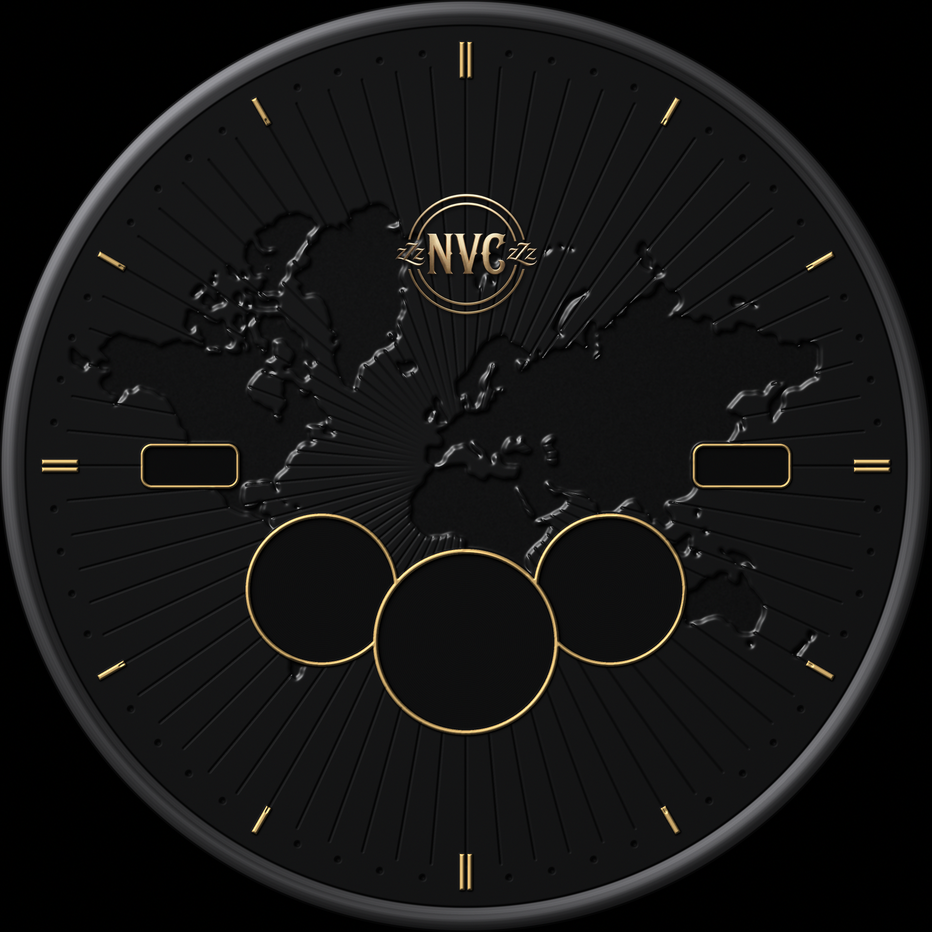
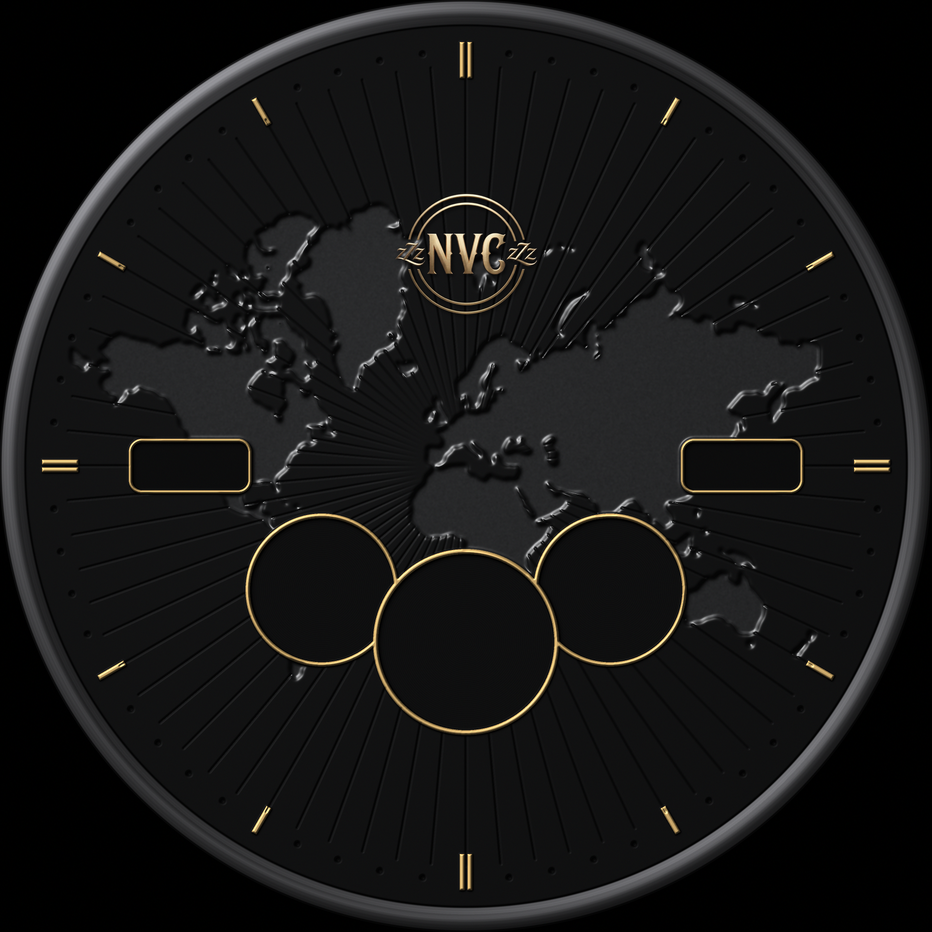
fix: larger date, battery and complication text; lighter map; trend from glucose text

diff --git a/art/render_bg.py b/art/render_bg.py
@@ -32,7 +32,7 @@ BEZEL_IN, BEZEL_OUT = 221.0, 233.0
 CENTER_WELL = (0.0, 88.0, 44.0, 46.4)
 SIDE_WELLS = [(-72.0, 62.0, 36.0, 38.2), (72.0, 62.0, 36.0, 38.2)]
 WELLS = [CENTER_WELL] + SIDE_WELLS
-WIN_W, WIN_H, WIN_RAD, WIN_FRAME = 46.0, 19.0, 4.0, 1.6
+WIN_W, WIN_H, WIN_RAD, WIN_FRAME = 58.0, 24.0, 5.0, 1.6   # agrandadas a peticion del usuario (2026-11-23)
 WINDOWS = [(138.0, 0.0), (-138.0, 0.0)]               # 3 h: fecha | 9 h: bateria
 LOGO_CX, LOGO_CY, LOGO_W = 0.0, -106.0, 72.0
 
@@ -293,11 +293,11 @@ def main():
     sheen = np.clip(1 - np.hypot(xx + 60, yy + 80) / 320.0, 0, 1)
     grain = gauss(rng.normal(0, 1, (S, S)).astype(np.float32), 0.6)
 
-    ocean = 0.072 + 0.022 * sheen - 0.030 * rays_v - 0.035 * dots
+    ocean = 0.060 + 0.020 * sheen - 0.028 * rays_v - 0.032 * dots
     if sign > 0:
         land_alb = 0.112 + 0.022 * sheen + 0.008 * grain
     else:
-        land_alb = 0.056 + 0.016 * sheen + 0.016 * grain     # fondo fresado y granallado
+        land_alb = 0.135 + 0.030 * sheen + 0.022 * grain     # fondo fresado y granallado, mas claro que el oceano para que el mapa se lea en el reloj (2026-11-23)
     alb = ocean * (1 - land_v) + land_alb * land_v
 
     d_c = np.hypot(xx - CENTER_WELL[0], yy - CENTER_WELL[1])

diff --git a/docs/superpowers/specs/2026-11-22-nvc-watchface-design.md b/docs/superpowers/specs/2026-11-22-nvc-watchface-design.md
@@ -82,7 +82,7 @@ sobresale el oro.**
 | Pieza | Acabado |
 |---|---|
 | Esfera (océano) | negro satinado con un brillo suave arriba a la izquierda |
-| Continentes | **bajo relieve**: fresados, fondo granallado más oscuro; sólo brillan las paredes que miran a la luz |
+| Continentes | **bajo relieve**: fresados, fondo granallado **más claro que el océano** (cambio del 2026-11-23: en el reloj el mapa apenas se distinguía); sólo brillan las paredes que miran a la luz |
 | Rayos (72, cada 5°) y puntos de minutería | grabados en la superficie; los rayos se cortan en la costa |
 | Sub-esferas y ventanas | hundidas, con fondo liso (las sub-esferas, con caracoleado fino) |
 | Índices, aros de sub-esferas y ventanas, logo | oro champán en relieve |
@@ -101,7 +101,7 @@ cierran canales de menos de ~1,7 unidades.
 | Índices del resto de horas | una barra r 197–212, 2,6 de ancho |
 | Puntos de minutería | r 207, radio 1,3; no hay punto en las horas |
 | Logo NVC | centrado en (233, 127), 72 de ancho (proporción del original: 144×124 a 2×) |
-| Ventana de fecha (3 h) | centro (371, 233), hueco 46×19, radio 4, marco dorado 1,6 |
+| Ventana de fecha (3 h) | centro (371, 233), hueco **58×24**, radio 5 (agrandada el 2026-11-23; era 46×19), marco dorado 1,6 |
 | Ventana de batería (9 h) | centro (95, 233), mismas medidas |
 | Sub-esfera izquierda · actividad | centro (161, 295), fondo r 36, aro hasta r 38,2 |
 | **Sub-esfera central · glucosa** | centro (233, 321), fondo r 44, aro hasta r 46,4; **queda por encima**: su aro corta los de las laterales |
@@ -119,11 +119,11 @@ capas dinámicas de §5.4.
 
 | Zona | Contenido en pantalla activa | Fuente del dato |
 |---|---|---|
-| Fecha (ventana 3 h) | «DOM» en oro + «22» en blanco, ~12,5 px | día de la semana abreviado y día del mes, en el idioma del reloj (español) |
+| Fecha (ventana 3 h) | «DOM» en oro + «22» en blanco, **17 px** (era ~12,5; en el reloj se veía pequeño; WFF sólo admite tamaños enteros) | día de la semana abreviado y día del mes, en el idioma del reloj (español) |
 | Batería (ventana 9 h) | icono de pila con relleno proporcional + «86%»; en **rojo** cuando está baja | porcentaje de batería |
 | Actividad (izquierda) | el icono que mande la complicación asignada, centrado y algo desplazado hacia la izquierda, lejos del solape | complicación de imagen / atajo de app |
-| **Glucosa (centro)** | aro de progreso r 38,5 (trazo 3) según el valor dentro del rango; valor grande (~31 px, peso 600); flecha de tendencia; unidad «mg/dL»; antigüedad de la lectura («hace 4 min») | complicación *Ranged Value*; si el proveedor sólo ofrece *Short Text*, número y texto sin aro |
-| Tiempo (derecha) | icono + temperatura (~15 px), algo desplazados hacia la derecha | complicación *Short Text* con icono |
+| **Glucosa (centro)** | aro de progreso r 38,5 (trazo 3) según el valor dentro del rango; valor grande (**36 px**, peso 600); flecha de tendencia (último carácter del texto de la propia complicación, «185→»); unidad «mg/dL»; antigüedad de la lectura («hace 4 min») | complicación *Ranged Value*; si el proveedor sólo ofrece *Short Text*, número y texto sin aro |
+| Tiempo (derecha) | icono + temperatura (**20 px**, icono 26), algo desplazados hacia la derecha | complicación *Short Text* con icono |
 | Agujas | horaria y minutero dorados, ahusados, con sombra; segundero claro y fino con contrapeso en anillo; tapa central r 7 con aro dorado | hora del sistema |
 
 Longitudes de agujas desde el centro: horaria hasta r 117, minutero hasta r 177, segundero hasta
